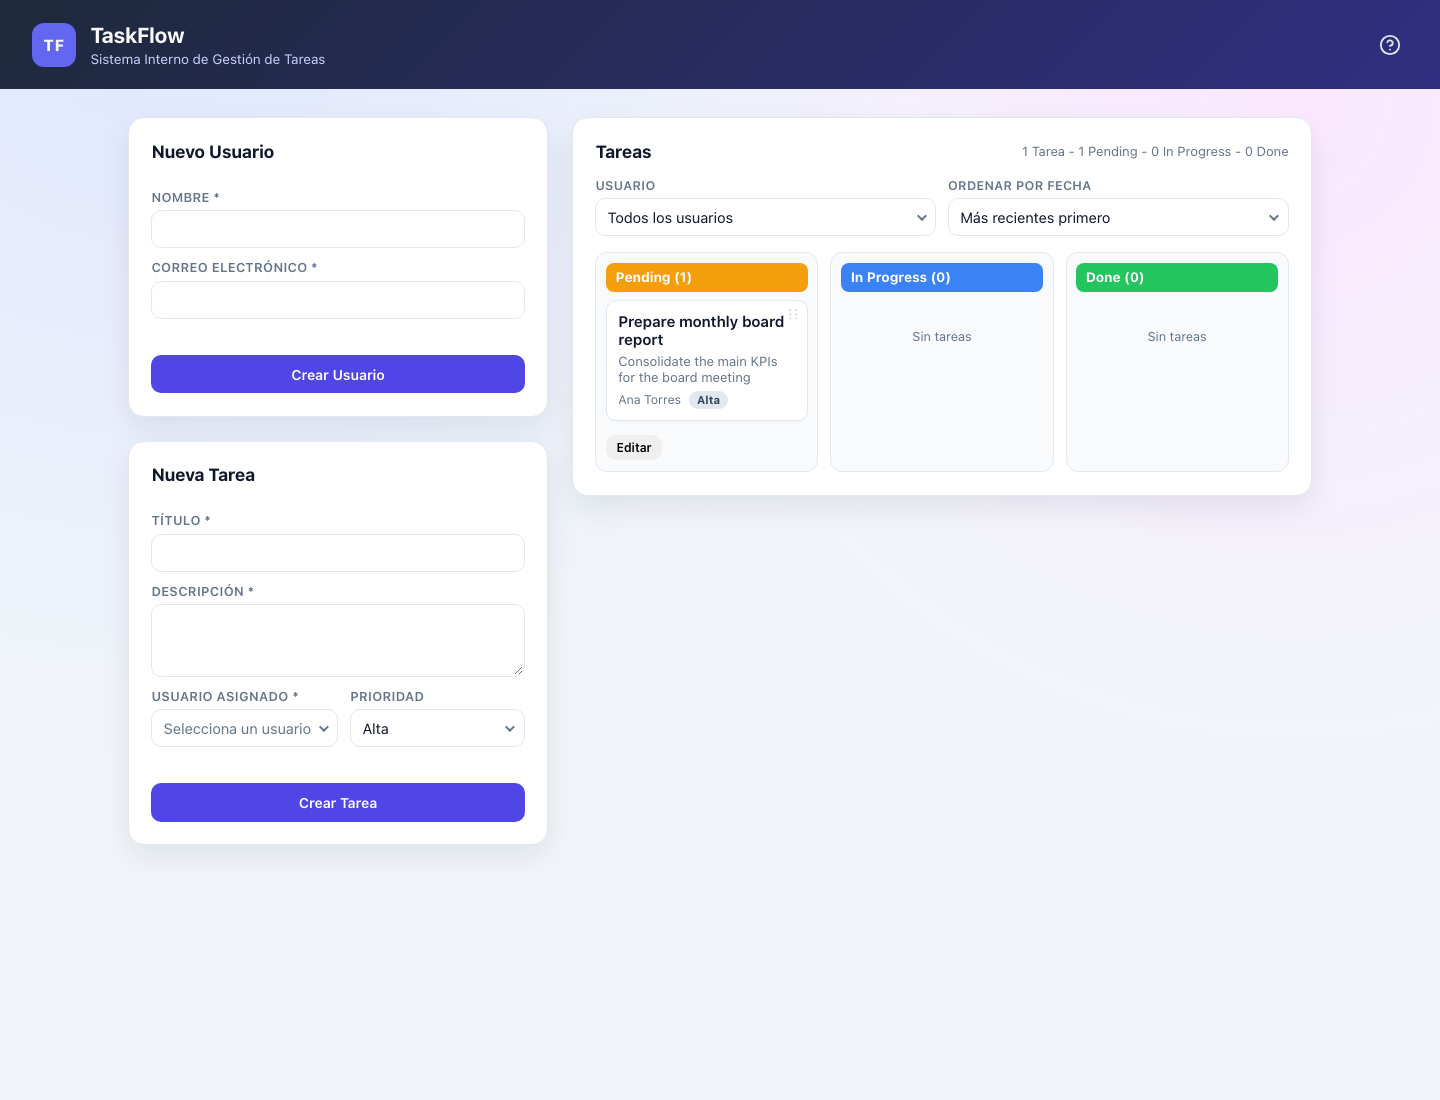
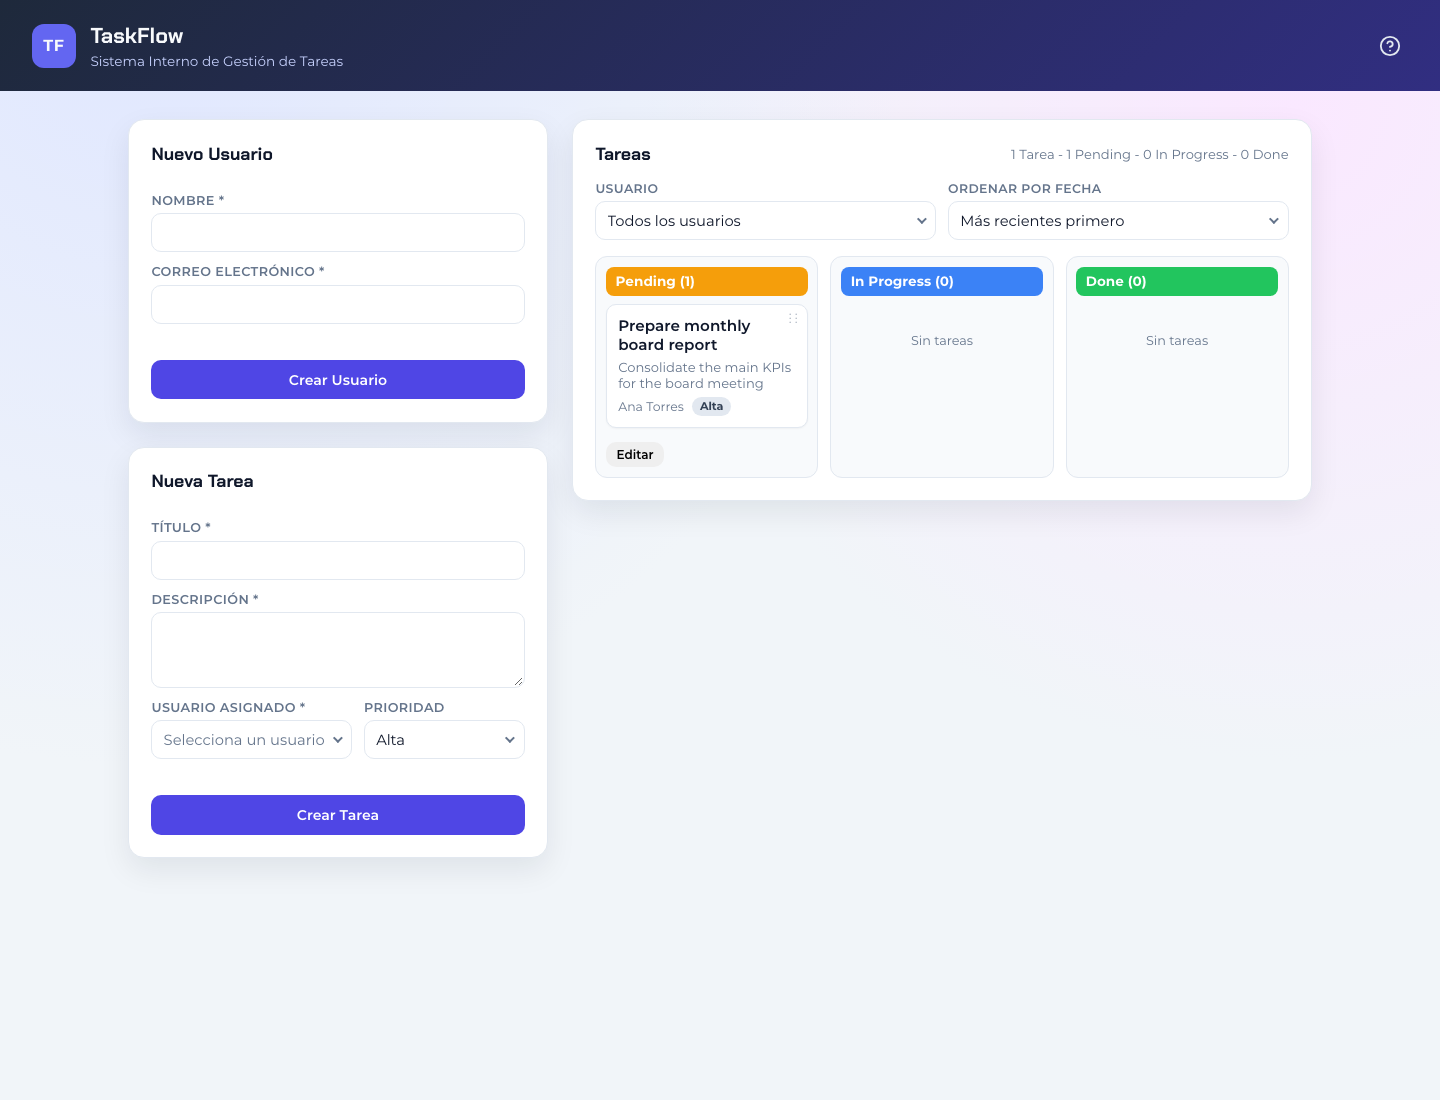
feat: apply Chakra Petch and Montserrat fonts

diff --git a/frontend/src/styles.css b/frontend/src/styles.css
@@ -14,7 +14,9 @@
   --success-bg: #dcfce7;
   --radius: 16px;
   --shadow: 0 12px 30px rgba(15, 23, 42, 0.08);
-  font-family: 'Inter', 'Segoe UI', system-ui, -apple-system, sans-serif;
+  --font-title: 'Chakra Petch', 'Segoe UI', sans-serif;
+  --font-text: 'Montserrat', 'Segoe UI', system-ui, -apple-system, sans-serif;
+  font-family: var(--font-text);
 }
 
 * {
@@ -35,6 +37,10 @@ body {
     #f1f5f9;
   color: var(--text);
   -webkit-font-smoothing: antialiased;
+}
+
+h1, h2, h3, h4, h5, h6 {
+  font-family: var(--font-title);
 }
 
 .card {

diff --git a/frontend/src/index.html b/frontend/src/index.html
@@ -6,6 +6,9 @@
   <title>TaskFlow - Gestión de tareas</title>
   <base href="/">
   <meta name="viewport" content="width=device-width, initial-scale=1">
+  <link rel="preconnect" href="https://fonts.googleapis.com">
+  <link rel="preconnect" href="https://fonts.gstatic.com" crossorigin>
+  <link href="https://fonts.googleapis.com/css2?family=Chakra+Petch:wght@400;500;600;700&family=Montserrat:wght@400;500;600;700&display=swap" rel="stylesheet">
   <link rel="icon" type="image/svg+xml" href="favicon.svg">
 </head>
 <body>
